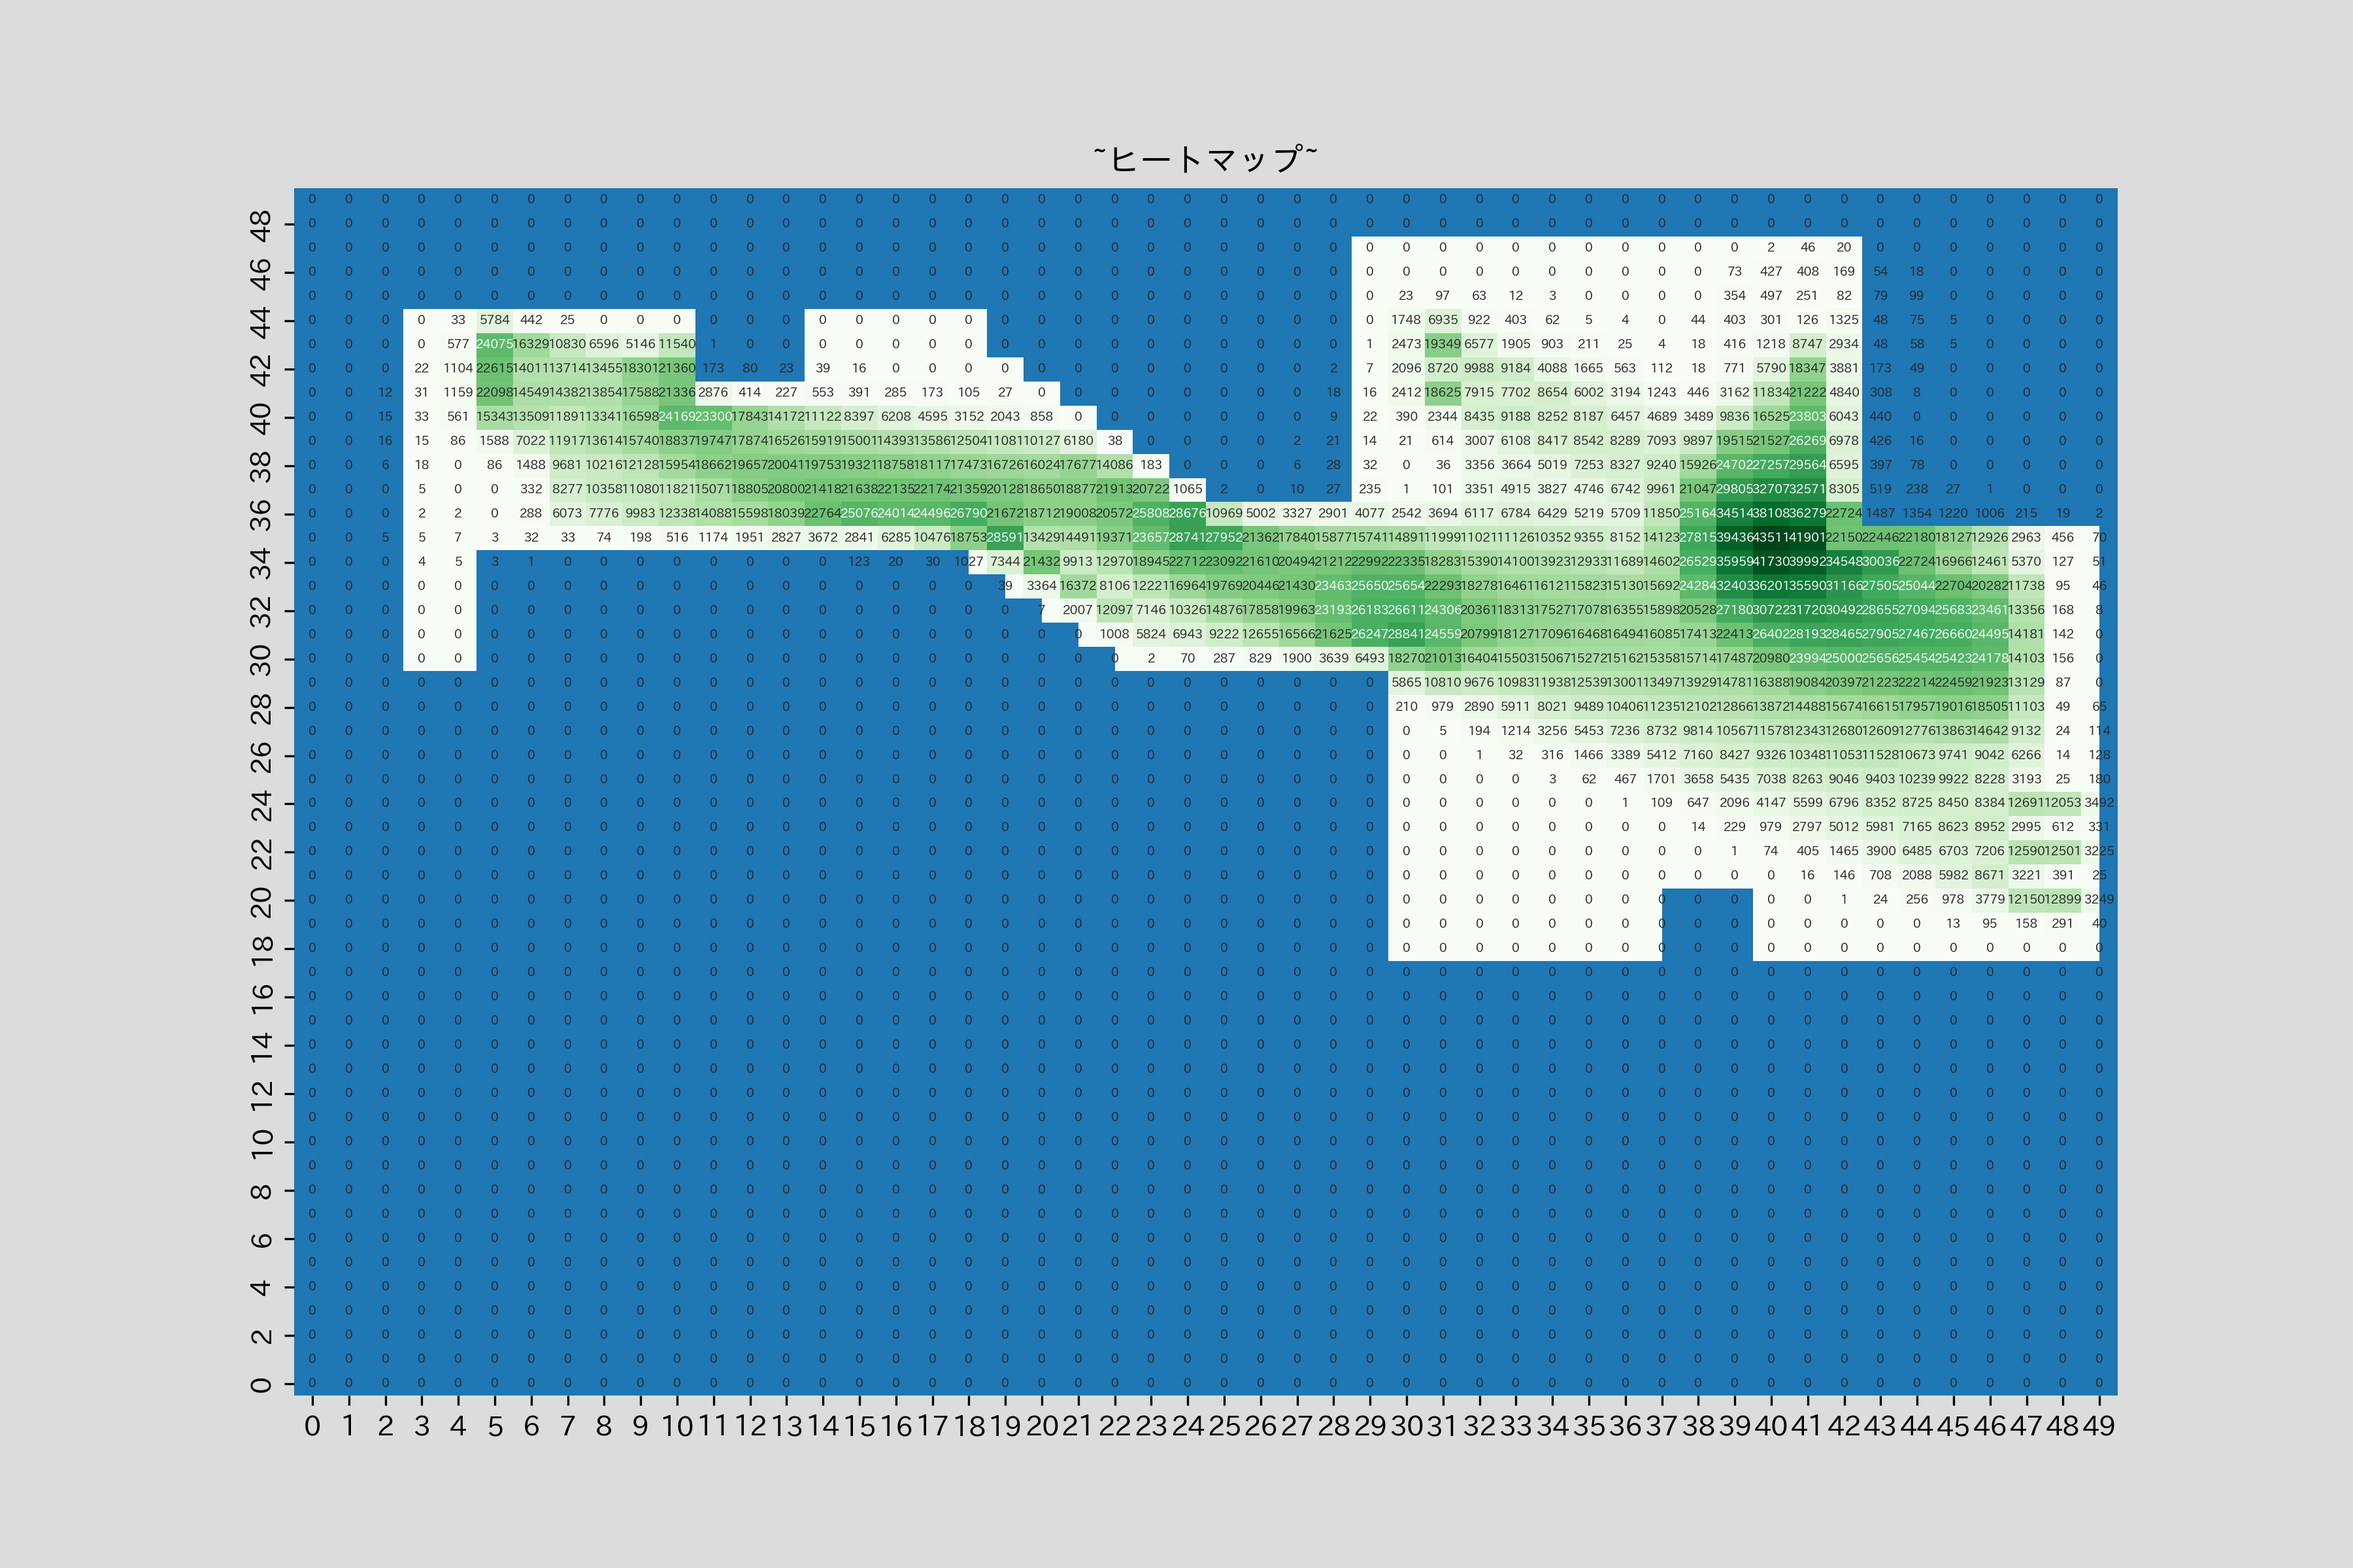
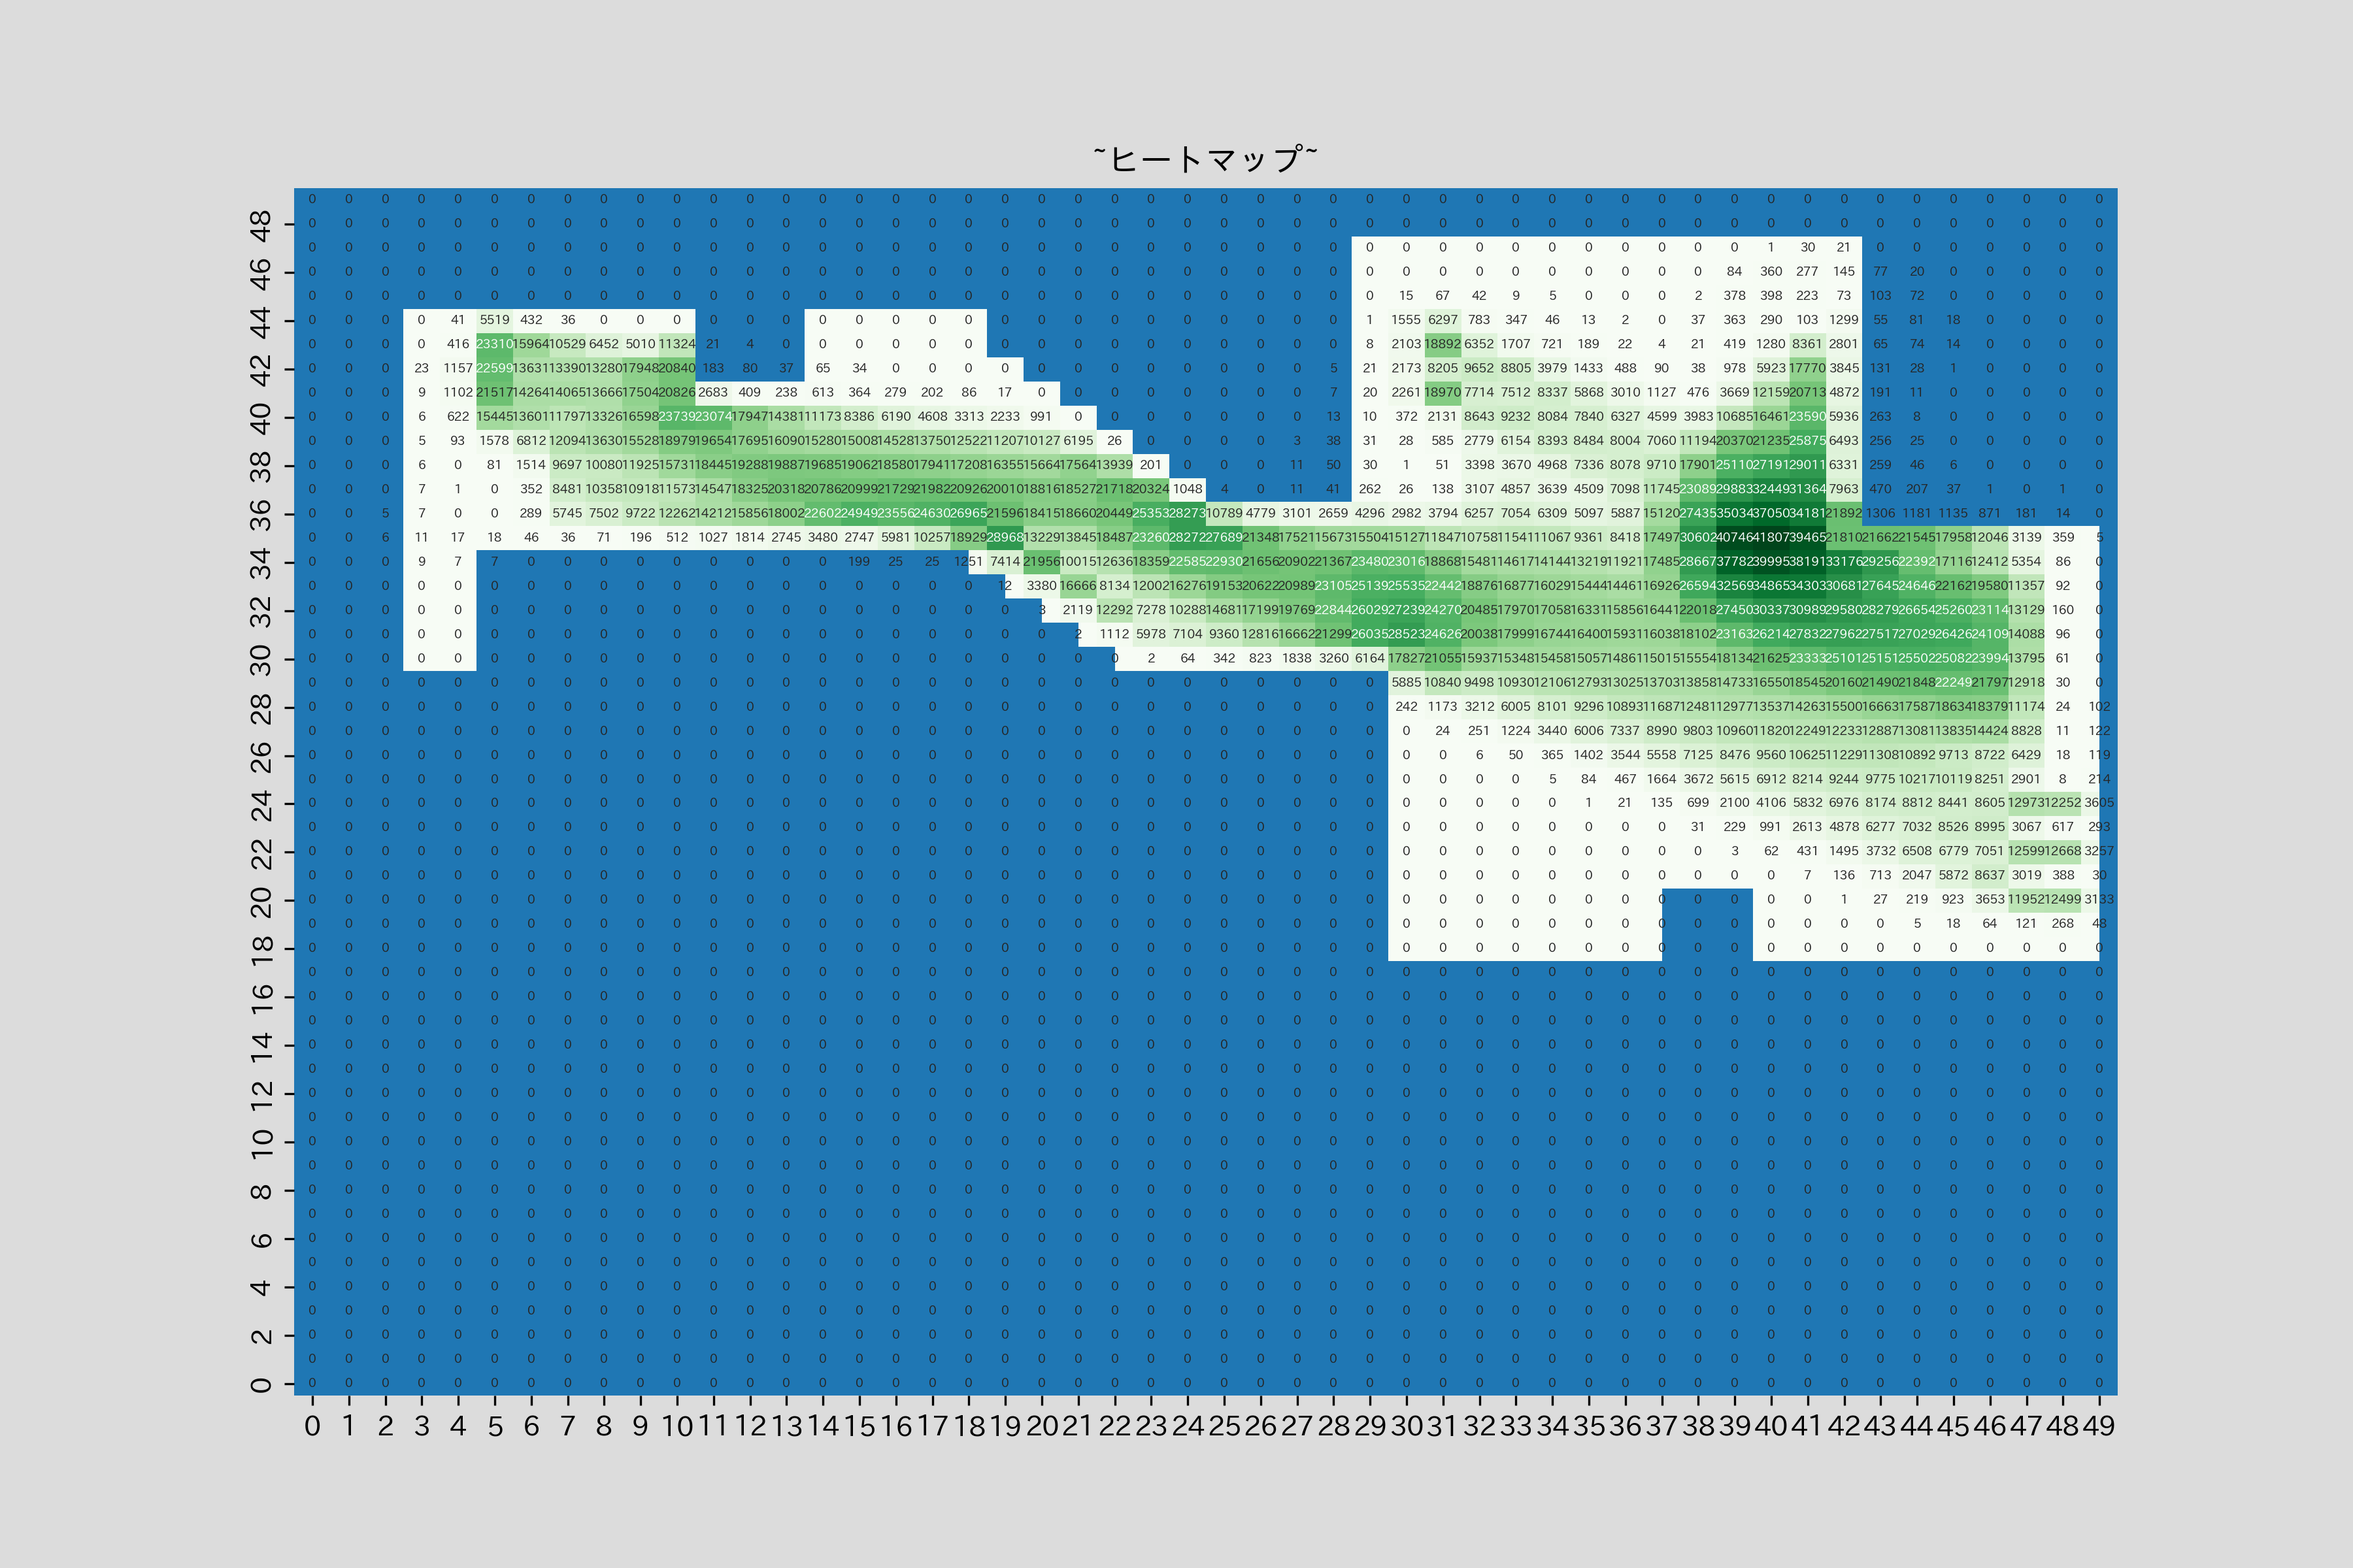
normal

Changed region(s): [[0.1867, 0.1875, 0.8711, 0.5312], [0.84, 0.5625, 0.8711, 0.5938], [0.7467, 0.1562, 0.7778, 0.1875]]

diff --git a/gap_morning.py b/gap_morning.py
@@ -10,8 +10,8 @@ from result_morning import *
 
 type = "result_morning"
 
-now_string = "aww09"
-kabe = True
+now_string = "normal"
+kabe = False
 
 now = xxx[now_string]
 
